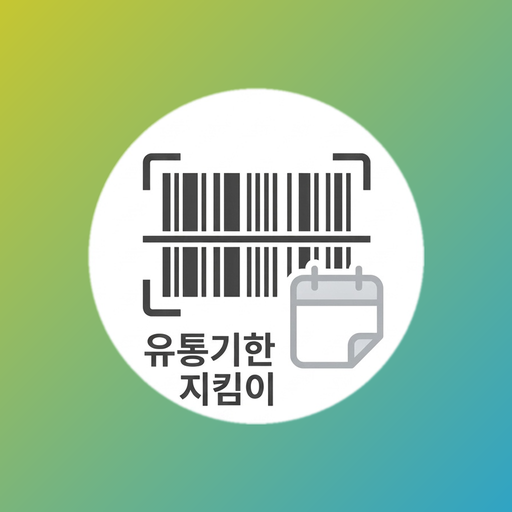
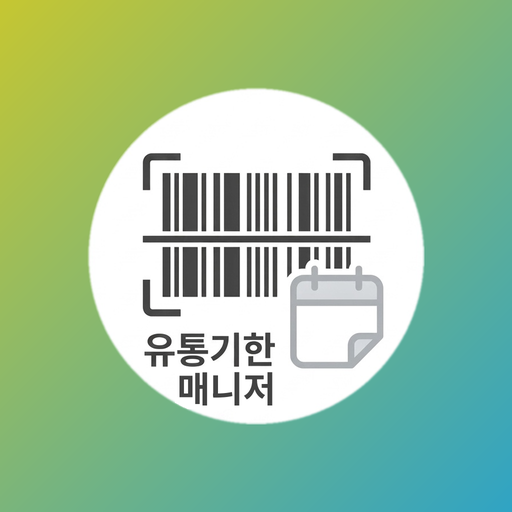
chore: 앱 이름을 '유통기한 매니저'로 변경
- app.json name, 홈/로그인 화면, 알림 제목, 팀 초대 메시지 문구 변경
- 아이콘(기본·안드로이드·흑백·스플래시·파비콘) 내 글자 '지킴이' → '매니저'
- Play 스토어 아이콘 512, 피처 그래픽 1024x500 재생성
- 스토어 등록정보 초안: 앱 이름 '유통기한 매니저: 가정·매장 소비기한 알림'
- slug / android package / bundle ID 는 기존 앱 업데이트 유지를 위해 변경하지 않음

Changed region(s): [[0.3438, 0.7188, 0.5312, 0.8125]]

diff --git a/src/app/_layout.tsx b/src/app/_layout.tsx
@@ -69,7 +69,7 @@ export default function RootLayout() {
         }}
       >
         <Stack.Protected guard={authed && mode !== null}>
-          <Stack.Screen name="index" options={{ title: '유통기한 지킴이' }} />
+          <Stack.Screen name="index" options={{ title: '유통기한 매니저' }} />
           <Stack.Screen name="calendar" options={{ title: '유통기한 달력' }} />
           <Stack.Screen name="team" options={{ title: '팀 설정' }} />
           <Stack.Screen name="team-invite" options={{ title: '멤버 초대' }} />

diff --git a/src/app/team-invite.tsx b/src/app/team-invite.tsx
@@ -18,7 +18,7 @@ import { Team } from '@/lib/types';
 
 function buildInviteMessage(team: Team): string {
   const link = Linking.createURL('team', { queryParams: { code: team.inviteCode } });
-  return `[유통기한 지킴이] '${team.name}' 팀에 초대합니다.\n초대 코드: ${team.inviteCode}\n아래 링크로 바로 참여하세요.\n${link}`;
+  return `[유통기한 매니저] '${team.name}' 팀에 초대합니다.\n초대 코드: ${team.inviteCode}\n아래 링크로 바로 참여하세요.\n${link}`;
 }
 
 function InviteRow({

diff --git a/src/app/login.tsx b/src/app/login.tsx
@@ -159,7 +159,7 @@ export default function Login() {
           source={require('@/assets/images/icon.png')}
           style={{ width: 96, height: 96, borderRadius: 22 }}
         />
-        <Text className="text-ink mt-4 text-3xl font-bold">유통기한 지킴이</Text>
+        <Text className="text-ink mt-4 text-3xl font-bold">유통기한 매니저</Text>
         <Text className="text-muted mt-2 text-base">
           로그인하면 어느 기기에서든 재고를 확인할 수 있습니다.
         </Text>

diff --git a/src/lib/notifications.ts b/src/lib/notifications.ts
@@ -54,7 +54,7 @@ export async function scheduleExpiryAlerts(p: Product): Promise<void> {
       if (date.getTime() <= Date.now()) continue;
       await Notifications.scheduleNotificationAsync({
         identifier: `${p.id}-o${offset}`,
-        content: { title: '유통기한 지킴이', body: alertBody(p.name, offset) },
+        content: { title: '유통기한 매니저', body: alertBody(p.name, offset) },
         trigger: {
           type: Notifications.SchedulableTriggerInputTypes.DATE,
           date,

diff --git a/store-assets/store-listing-draft.md b/store-assets/store-listing-draft.md
@@ -6,7 +6,7 @@
 
 ## 1. 기본 정보
 
-- **앱 이름**: 유통기한 지킴이
+- **앱 이름**: 유통기한 매니저: 가정·매장 소비기한 알림
 - **기본 언어**: 한국어 - 대한민국
 - **앱 또는 게임**: 앱
 - **무료 또는 유료**: 무료
@@ -24,7 +24,7 @@
 ```
 냉장고 속 식재료, 유통기한을 놓쳐서 버린 적 있으신가요?
 
-'유통기한 지킴이'는 바코드 스캔 한 번으로 상품을 등록하고, 유통기한이 임박하면 알림으로 미리 알려주는 스마트 재고관리 앱입니다.
+'유통기한 매니저'는 바코드 스캔 한 번으로 상품을 등록하고, 유통기한이 임박하면 알림으로 미리 알려주는 스마트 재고관리 앱입니다.
 
 ■ 이런 분께 추천해요
 - 냉장고 정리가 늘 숙제인 1인 가구·가정
@@ -53,7 +53,7 @@
 🏠 가정용 / 🏪 소매점용 모드
 사용 목적에 맞는 모드를 선택해 필요한 기능만 간결하게 사용하세요.
 
-이제 유통기한 걱정 없이, '유통기한 지킴이'와 함께 똑똑하게 관리해보세요.
+이제 유통기한 걱정 없이, '유통기한 매니저'와 함께 똑똑하게 관리해보세요.
 ```
 
 ## 4. 카테고리 / 태그

diff --git a/README.md b/README.md
@@ -1,4 +1,4 @@
-# 유통기한 지킴이 (Expiry Keeper)
+# 유통기한 매니저 (Expiry Keeper)
 
 바코드 스캔으로 상품을 3초 만에 등록하고, 유통기한이 임박한 순서로 관리하는 소매점 재고 관리 앱입니다.
 
